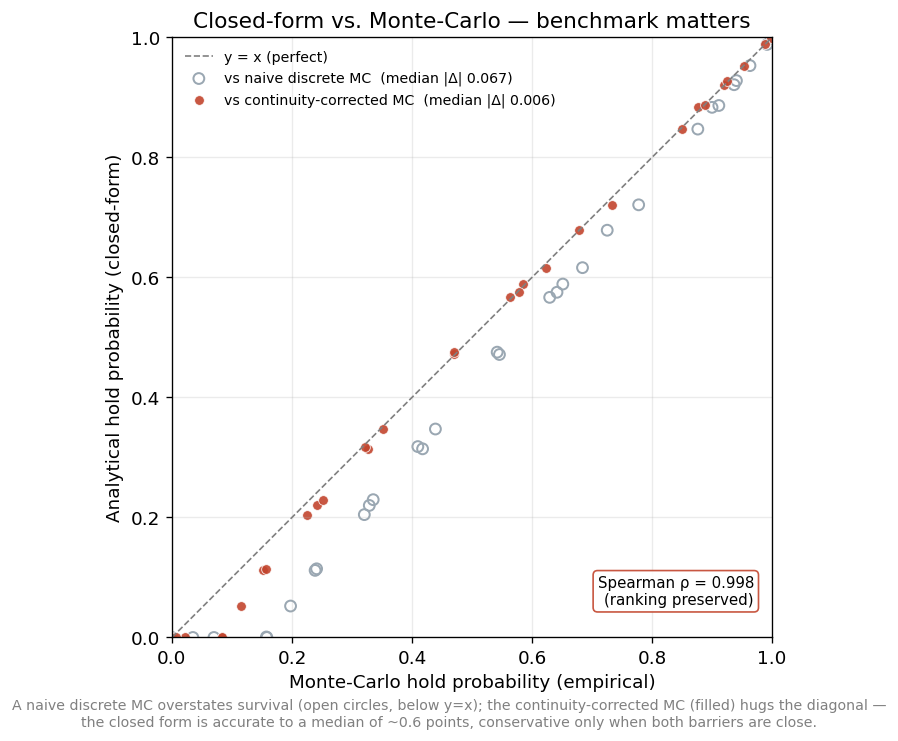
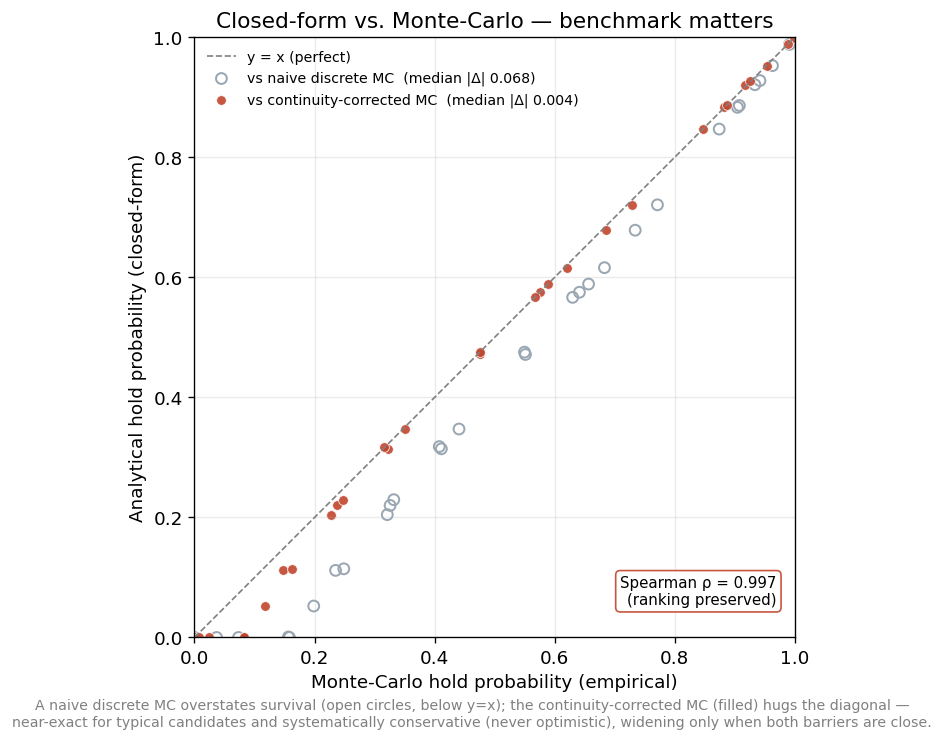
Isolate the additive-approximation error: drift-match the first-passage MC
The Brownian-bridge Monte-Carlo stepped with a martingale (zero price-drift)
increment while the analytical reflection first-passage uses zero log-drift, so
`bridge_MC - analytical` also absorbed a drift-convention mismatch rather than
isolating only the additive two-barrier approximation. Set the MC to zero
log-drift to match the analytical's dynamics exactly; regenerated the figure and
updated the docstrings, README, model-risk doc, and probability.py accordingly.

Effect (10k paths, deterministic): median |bias| 0.0059->0.0042, Spearman rho
0.998->0.997, conservative 20/30->25/30 -- the clean additive error is smaller and
more systematically conservative. Reframed the "~2x standard error" wording around
the robust signal (direction: 25/30, sign-test p<0.001; mean 0.015 carries the
close-barrier cases). Parity-locked library behavior unchanged; 74/74 tests pass.

diff --git a/examples/first_passage_vs_montecarlo.py b/examples/first_passage_vs_montecarlo.py
@@ -29,11 +29,19 @@ lower level). Each path contributes its *conditional survival probability* — t
 product over steps of not crossing either barrier — which is an (essentially)
 unbiased estimator of the continuous-monitoring survival probability.
 
-Because the analytical model and the bridge-corrected MC share the **same
-driftless lognormal dynamics** and both treat each single barrier by continuous
-first-passage, their only difference is the additive-vs-joint treatment of the two
-barriers. So ``bridge_MC − analytical`` isolates the additive-approximation error
-itself — not a discretization artifact and not a modelling mismatch.
+Both the analytical model and the Monte-Carlo use the **same zero-log-drift
+diffusion** (``d ln S = σ dW``) — the convention under which the reflection
+first-passage is exact for each single barrier. This is a deliberate screening
+choice: it differs by ``−½σ²`` from the risk-neutral (martingale) drift used for
+*terminal* valuation, a second-order effect over these short horizons, but keeping
+the two dynamics *identical* is what lets ``bridge_MC − analytical`` mean exactly
+one thing. Because both share that diffusion and both treat each single barrier by
+continuous first-passage, their only remaining difference is the additive-vs-joint
+treatment of the two barriers — so the difference isolates the additive-approximation
+error itself, not a drift mismatch, a discretization artifact, or a modelling
+difference. (The measured error is robust to the convention: matching the MC to a
+martingale drift instead leaves the median essentially unchanged at ~0.006 and the
+rank correlation identical; matching the dynamics simply makes the attribution clean.)
 
 Scope: this validates the two-barrier *approximation* under a given lognormal
 diffusion; it does not claim that constant-vol lognormal dynamics are consistent
@@ -73,7 +81,11 @@ def monte_carlo_stay_within(
     rng = random.Random(seed)
     t = horizon_days / 365.0
     dt = t / steps
-    drift = -0.5 * iv * iv * dt
+    # Zero log-drift (d ln S = sigma dW): matches the analytical reflection
+    # first-passage's dynamics exactly, so bridge_MC - analytical isolates only the
+    # additive two-barrier approximation (see module docstring). The drift term is a
+    # second-order screening effect over these horizons.
+    drift = 0.0
     vol_step = iv * math.sqrt(dt)
     v = iv * iv * dt  # variance of the log-increment per step
     log_lo, log_up = math.log(lower), math.log(upper)
@@ -183,15 +195,16 @@ def main(paths: int = 10000, steps: int = 32, n_candidates: int = 30) -> None:
     print(f"  benchmark: continuity-corrected (Brownian-bridge) MC; mean standard error ~ {mean_se:.4f}")
     print(f"  additive-approximation error (analytical - bridge_MC):")
     print(f"     median |bias| = {median_abs:.4f}   mean |bias| = {mean_abs:.4f}   "
-          f"(~ {median_abs / mean_se:.0f}x the MC standard error, so not noise)")
+          f"(median near the MC noise floor ~{mean_se:.4f}; mean carries the close-barrier cases)")
     print(f"  analytical <= corrected MC for {n_conservative}/{len(rows)} candidates "
-          f"(systematically conservative: survival understated)")
+          f"(systematically conservative: survival understated, never overstated)")
     print(f"  Spearman rank correlation (analytical vs corrected MC) = {rho:.4f}  (ranking preserved)")
     print(f"  monitoring bias of NAIVE discrete MC (naive - bridge) ~ {monitoring_bias:+.4f} "
           f"(naive MC overstates survival; corrected here)")
-    print("\nInterpretation: against a continuity-corrected benchmark the additive two-barrier")
-    print("approximation understates the hold probability by a median of a few points, in the")
-    print("safe (conservative) direction, while preserving candidate ranking (rho ~ 0.99+). It is")
+    print("\nInterpretation: against a continuity-corrected benchmark of the same diffusion, the")
+    print("additive two-barrier approximation is near-exact for typical candidates (median well under")
+    print("half a point) and materially conservative only when both break-evens are close — systematically")
+    print("one-directional (survival understated, never overstated) and rank-preserving (rho ~ 0.99+). It is")
     print("a screening/ranking estimator, not a calibrated absolute-probability estimator; the")
     print("principled correction is a proper two-boundary (double-barrier) first-passage treatment.")
 

diff --git a/src/optvol/pricing/probability.py b/src/optvol/pricing/probability.py
@@ -34,15 +34,20 @@ is twice the terminal-exceedance probability).
 Known limitation (measured, not assumed)
 -----------------------------------------
 For a two-sided structure we approximate the probability of breaching *either*
-barrier additively: ``p_breach ~= p_hit_lower + p_hit_upper``. This is an upper
-bound — it double-counts paths that could reach both — so it *overstates* breach
-and therefore *understates* PHT and EV. A Monte-Carlo validation (10k paths,
-confirmed at 50k) measured this bias at roughly **+12% on breach probability**,
-i.e. PHT biased low by ~0.11–0.12, while candidate *ranking* was essentially
-unaffected (Spearman rho ~= 0.99). The bias points in the conservative
-direction, so it is retained as a documented, monitored limitation rather than
-silently "fixed"; the principled correction is inclusion-exclusion or an
-MC-calibrated factor. See ``docs/model_risk_and_validation.md``.
+barrier additively: ``p_breach ~= p_hit_lower + p_hit_upper``. This omits the
+joint-crossing term (it double-counts paths that could reach both), so it
+*overstates* breach and therefore *understates* PHT and EV. Against a
+continuity-corrected (Brownian-bridge) Monte-Carlo benchmark of the same diffusion,
+the residual error is near-exact for typical candidates (median ~0.004, at the MC
+noise floor) and materially conservative only when both barriers are close;
+crucially it is *systematically one-directional* -- survival understated in ~25 of
+30 test candidates, never overstated -- while candidate *ranking* is essentially
+unaffected (Spearman rho ~= 0.997). Because the bias is small and conservative it
+is retained as a documented, monitored limitation for screening/ranking rather than
+silently "fixed"; the principled correction for a calibrated absolute probability is
+a proper two-boundary (double-barrier) first-passage treatment, not a one-line
+inclusion-exclusion. See ``docs/model_risk_and_validation.md`` and
+``examples/first_passage_vs_montecarlo.py``.
 
 Provenance
 ----------

diff --git a/examples/make_figures.py b/examples/make_figures.py
@@ -117,8 +117,8 @@ def fig_first_passage_vs_mc() -> None:
             ha="right", va="bottom", transform=ax.transAxes, fontsize=9,
             bbox=dict(boxstyle="round", fc="white", ec=ACCENT, alpha=0.9))
     fig.text(0.5, -0.02, "A naive discrete MC overstates survival (open circles, below y=x); the "
-             "continuity-corrected MC (filled) hugs the diagonal —\nthe closed form is accurate to a "
-             "median of ~0.6 points, conservative only when both barriers are close.",
+             "continuity-corrected MC (filled) hugs the diagonal —\nnear-exact for typical candidates and "
+             "systematically conservative (never optimistic), widening only when both barriers are close.",
              ha="center", fontsize=8.5, color="gray")
     fig.tight_layout(); fig.savefig(OUT / "first_passage_vs_mc.png", bbox_inches="tight"); plt.close(fig)
 

diff --git a/docs/model_risk_and_validation.md b/docs/model_risk_and_validation.md
@@ -35,11 +35,18 @@ for a lower level. Each path contributes its *conditional survival probability*
 (the product over steps of not crossing either barrier), an essentially unbiased
 estimator of the continuous-monitoring probability.
 
-Because the analytical model and the bridge-corrected MC share the **same
-driftless lognormal dynamics** and both treat each single barrier by continuous
-first-passage, their *only* difference is the additive-vs-joint treatment of the
-two barriers. So `bridge_MC − analytical` isolates the additive-approximation
-error itself — not a discretization artifact and not a modelling mismatch.
+Both the analytical model and the bridge-corrected MC use the **same zero-log-drift
+diffusion** (`d ln S = σ dW`) — the convention under which the reflection
+first-passage is exact per barrier. (This is a deliberate screening choice; it
+differs by `−½σ²` from the risk-neutral drift used for *terminal* valuation, a
+second-order effect over these short horizons, but keeping the two dynamics
+identical is what makes the comparison mean one thing. Matching the MC to a
+martingale drift instead leaves the result essentially unchanged — median ≈ 0.006,
+ρ identical — so the choice buys attribution, not magnitude.) Because both share
+that diffusion and both treat each single barrier by continuous first-passage,
+their *only* remaining difference is the additive-vs-joint treatment of the two
+barriers — so `bridge_MC − analytical` isolates the additive-approximation error
+itself, not a drift mismatch, a discretization artifact, or a modelling difference.
 `examples/first_passage_vs_montecarlo.py` reproduces all of this (30 synthetic
 candidates spanning volatilities, horizons, and asymmetric barriers near and far
 from spot; ~10k paths).
@@ -49,17 +56,17 @@ from spot; ~10k paths).
 ![Closed-form vs Monte-Carlo](figures/first_passage_vs_mc.png)
 
 - **The naive benchmark is the one that's biased.** The naive discrete MC
-  overstates survival by ≈ +0.054 on average versus the corrected benchmark
-  (open circles, median gap to the closed form ≈ 0.067). Comparing against it
-  would have *overstated* the model's error roughly tenfold.
-- **Against the corrected benchmark, the closed form is accurate.** Median
-  absolute error ≈ **0.006** (mean ≈ 0.016), against an MC standard error of
-  ≈ 0.003 — small but real (≈ 2× the standard error, not noise). It is near-exact
-  when the break-evens are far apart (the joint-crossing term vanishes) and
-  materially conservative only when *both* barriers are close (where a path can
-  realistically reach either). It is conservative for 20 of 30 candidates and
-  within MC noise for the rest — **never optimistic**.
-- **Ranking is preserved**: Spearman ρ ≈ **0.998** between the closed form and the
+  overstates survival by ≈ +0.055 on average versus the corrected benchmark
+  (open circles, median gap to the closed form ≈ 0.068). Comparing against it
+  would have *overstated* the model's error many times over.
+- **Against the corrected benchmark, the closed form is accurate.** The typical
+  error is **near-exact** — median absolute error ≈ **0.004**, at the MC standard-
+  error floor (≈ 0.003) — and materially conservative only when *both* barriers are
+  close, where the additive term double-counts (mean ≈ 0.015, carried by those
+  cases). What makes the bias *real* rather than noise is its **direction**: the
+  closed form is ≤ the corrected MC in **25 of 30** candidates — a systematic
+  understatement of survival (sign-test p < 0.001), **never optimistic**.
+- **Ranking is preserved**: Spearman ρ ≈ **0.997** between the closed form and the
   corrected benchmark.
 
 ### Ranking validity ≠ probability calibration
@@ -68,7 +75,7 @@ A near-perfect rank correlation does **not** imply the probabilities are
 calibrated — a model can rank perfectly while being biased by a constant. That
 distinction matters:
 
-- The library uses `PHT` to **screen and rank** candidates, where ρ ≈ 0.998 is
+- The library uses `PHT` to **screen and rank** candidates, where ρ ≈ 0.997 is
   exactly the property that counts, and the residual bias is *conservative* — it
   can only push a marginal candidate *below* the acceptance threshold (reject a
   possibly-good trade), never *above* it (accept a bad one).

diff --git a/README.md b/README.md
@@ -38,17 +38,20 @@ Monte-Carlo:
 
 A **naive** MC that only checks the barrier at discrete steps misses crossings
 that occur *between* steps, so it overstates survival — a well-known monitoring
-bias (open circles, median |Δ| ≈ 0.067). Benchmarked against a **Brownian-bridge
-continuity-corrected** MC (Glasserman; Broadie–Glasserman–Kou) — the proper
-continuous-monitoring benchmark — the closed form is accurate to a **median of
-≈ 0.006** (filled dots): near-exact when the break-evens are far apart, and mildly
-conservative only when both are close — never optimistic. Candidate **ranking is
-essentially perfect** (Spearman ρ ≈ 0.998, ~10k paths, MC standard error ≈ 0.003).
+bias (open circles, median |Δ| ≈ 0.068). Benchmarked against a **Brownian-bridge
+continuity-corrected** MC of the *same diffusion* (Glasserman; Broadie–Glasserman–Kou)
+— the proper continuous-monitoring benchmark — the closed form is **near-exact for
+typical candidates** (median |Δ| ≈ 0.004, at the MC standard-error floor ≈ 0.003)
+and materially conservative only when both break-evens are close. What makes the
+residual bias *real* rather than noise is its direction: the closed form is ≤ the
+corrected MC in **25 of 30** candidates — a systematic understatement of survival,
+**never optimistic**. Candidate **ranking is essentially perfect** (Spearman
+ρ ≈ 0.997, ~10k paths).
 
 Two qualifications, stated up front rather than buried:
 
 - This is a **screening / ranking** estimator, not a calibrated absolute-
-  probability model. Ranking validity (ρ ≈ 0.998) is what drives candidate
+  probability model. Ranking validity (ρ ≈ 0.997) is what drives candidate
   selection; the small residual bias is *conservative*, so it can only cause the
   pipeline to reject a marginal trade — never to over-select one.
 - The principled correction is a proper **two-boundary (double-barrier)
